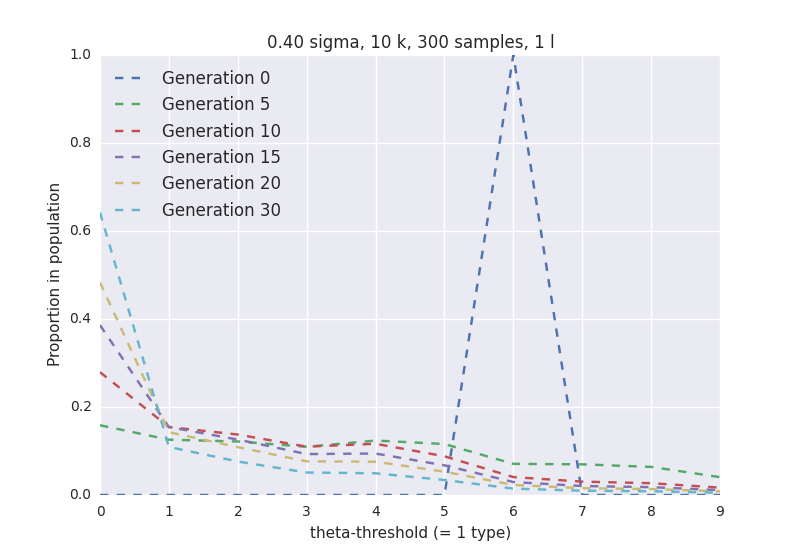
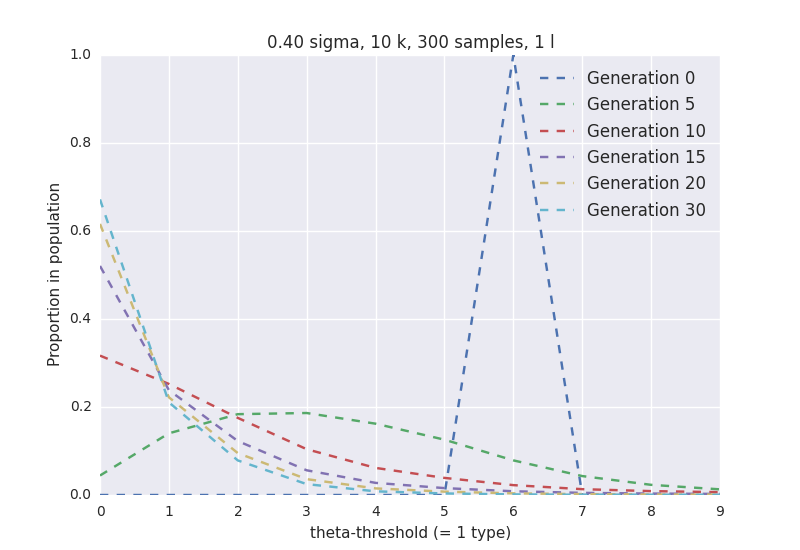
fixed deflation script for empty product in production

diff --git a/code/deflation_rmd.py b/code/deflation_rmd.py
@@ -11,7 +11,7 @@ import csv
 
 ##### variables ##########
 s = 10 #amount of states
-sigma = 1
+sigma = 3
 k = 10  # length of observation sequences
 sample_amount = 300 #amount of k-length samples for each production type 
 
@@ -22,8 +22,8 @@ gens = 30 #number of generations per simulation run
 state_freq = np.ones(s) / float(s) #frequency of states s_1,...,s_n 
 ##########################
 
-#f = csv.writer(open('./results/deflation-states%d-sigma%.2f-k%d-samples%d-l%d-g%d.csv' %(s,sigma,k,sample_amount,learning_parameter,gens),'wb')) #file to store mean results
-#f.writerow(["generation","sigma","k","samples","learning"]+['t'+str(x) for x in xrange(s)])
+f = csv.writer(open('./results/deflation-states%d-sigma%.2f-k%d-samples%d-l%d-g%d.csv' %(s,sigma,k,sample_amount,learning_parameter,gens),'wb')) #file to store mean results
+f.writerow(["generation","sigma","k","samples","learning"]+['t'+str(x) for x in xrange(s)])
 
 def normalize(m):
     m = m / m.sum(axis=1)[:, np.newaxis]
@@ -78,9 +78,10 @@ def get_likelihood(states, obs, sigma, state_freqs,k, kind='plain'):
         
     out = np.zeros([len(lh), len(obs)])
     for lhi in xrange(len(lh)):
-        prob_of_not_reporting = sum([state_freqs[x] for x in xrange(lhi)])
+        type_not_reporting_event = sum([state_freqs[x] for x in xrange(lhi)])
         for o in xrange(len(obs)):
-            out[lhi,o] = np.prod([lh[lhi][obs[o][x]] * stats.binom.pmf(k-len(obs[o]),k,prob_of_not_reporting) for x in xrange(len(obs[o])) ])
+            prob_not_reporting_ob = stats.binom.pmf(k-len(obs[o]),k,type_not_reporting_event)
+            out[lhi,o] = np.prod([lh[lhi][obs[o][x]]  for x in xrange(len(obs[o])) ]) * prob_not_reporting_ob
     return out
 
 print '#Starting, ', datetime.datetime.now()
@@ -113,7 +114,7 @@ p[starting_threshold] = 1
 for r in range(gens):
 #    pPrime = p * [np.sum(u[t,] * p)  for t in range(len(typeList))]
 #    pPrime = pPrime / np.sum(pPrime)
-#    f.writerow([str(r),str(sigma),str(k),str(sample_amount),str(learning_parameter)]+[str(x) for x in p])
+    f.writerow([str(r),str(sigma),str(k),str(sample_amount),str(learning_parameter)]+[str(x) for x in p])
     print '### Generation %d ###' %r
     print 'Proportion of %.2f players uses threshold %d' % (p[np.argmax(p)], np.argmax(p))
     print 'Proportion of %.2f players uses threshold %d' % (p[starting_threshold], starting_threshold)

diff --git a/code/plots.py b/code/plots.py
@@ -37,4 +37,6 @@ def deflation_over_generations(s,sigma,k,sample_amount,learning_parameter,gens):
 
     plt.show()
 
-deflation_over_generations(10,0.4,10,300,10,30)
+deflation_over_generations(10,0.4,10,300,1,30)
+deflation_over_generations(10,1,10,300,1,30)
+deflation_over_generations(10,3,10,300,1,30)
